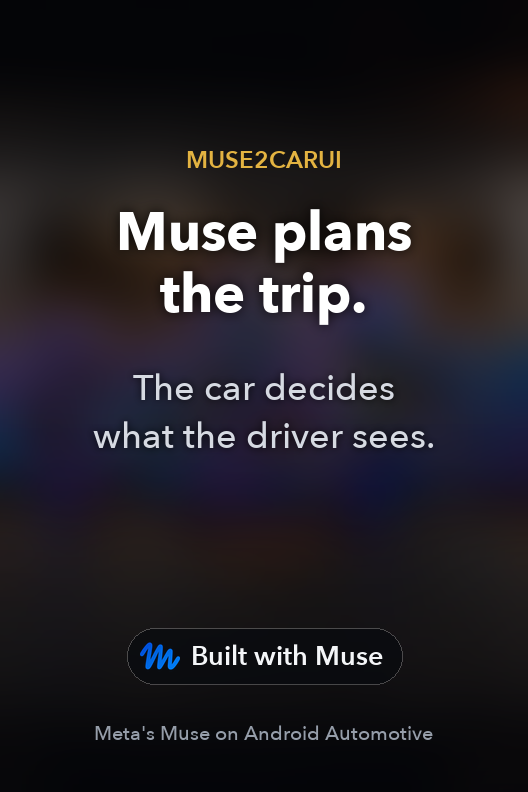
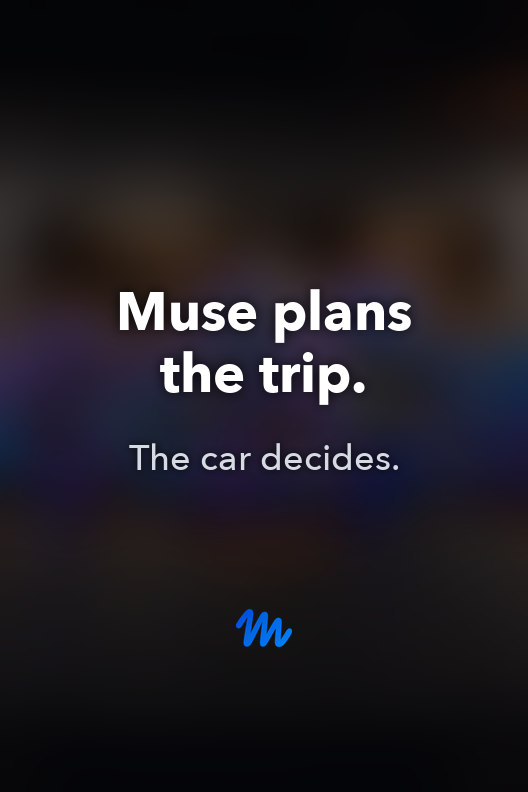
demo intro: passenger card is the tagline and the Muse mark only (the graffiti carries the name)

diff --git a/scripts/render-brand-assets.py b/scripts/render-brand-assets.py
@@ -18,7 +18,7 @@
   intro      the opening shown ON the cockpit's screens, at the recordings' own sizes so it
              takes the same scale-into-the-box path and crossfades into the live UI in place:
              cards/nyc_met-intro-driver.png     1408x792 (16:9), the Muse2CarUI graffiti
-             cards/nyc_met-intro-passenger.png   528x792 (2:3), tagline + "Built with Muse"
+             cards/nyc_met-intro-passenger.png   528x792 (2:3), tagline + the Muse mark
   thumbnail  build/demo/youtube-thumbnail.jpg (1280x720, < 2 MB): the cockpit showing the intro,
              plus its docs/media copy
   all        all three, in that order
@@ -171,26 +171,21 @@ def intro_driver() -> Image.Image:
 
 
 def intro_passenger() -> Image.Image:
-    """The same plate blurred to colour (no cut-off letters), the tagline, and the credit."""
+    """The same plate blurred to colour (no cut-off letters), the tagline, and the Muse mark."""
     ov = overlays()
     w, h = PASSENGER_SIZE
     image = cover(PLATE, (w, h), 0.5).filter(ImageFilter.GaussianBlur(24)).convert("RGBA")
     image.alpha_composite(Image.new("RGBA", (w, h), (6, 7, 12, 150)))
     bottom_gradient(image, 0.5, 190)
-    draw = ImageDraw.Draw(image)
     cx = w // 2
-    draw.text((cx, 168), "MUSE2CARUI", font=ov.font(24, "demi"), fill=(227, 179, 65, 255),
-              anchor="ms")
+    # Less is more: the graffiti carries the name; one tagline, and the Muse mark as the credit.
     for row, line in enumerate(("Muse plans", "the trip.")):
-        shadowed_text(image, (cx, 250 + 62 * row), line, ov.font(54, "bold"),
+        shadowed_text(image, (cx, 330 + 62 * row), line, ov.font(54, "bold"),
                       (255, 255, 255, 255), anchor="ms")
-    for row, line in enumerate(("The car decides", "what the driver sees.")):
-        shadowed_text(image, (cx, 400 + 48 * row), line, ov.font(36, "medium"),
-                      (214, 218, 226, 255), anchor="ms", blur=4)
-    built_with_muse(image, cx, 628, scale=0.9, centre=True)
-    ImageDraw.Draw(image).text((cx, 740), "Meta's Muse on Android Automotive",
-                               font=ov.font(20, "medium"), fill=(150, 158, 170, 255),
-                               anchor="ms")
+    shadowed_text(image, (cx, 470), "The car decides.", ov.font(36, "medium"),
+                  (214, 218, 226, 255), anchor="ms", blur=4)
+    mark = Image.open(BRAND / "muse-icon-256.png").convert("RGBA").resize((56, 56), Image.LANCZOS)
+    image.alpha_composite(mark, (cx - 28, 600))
     return image.convert("RGB")
 
 
